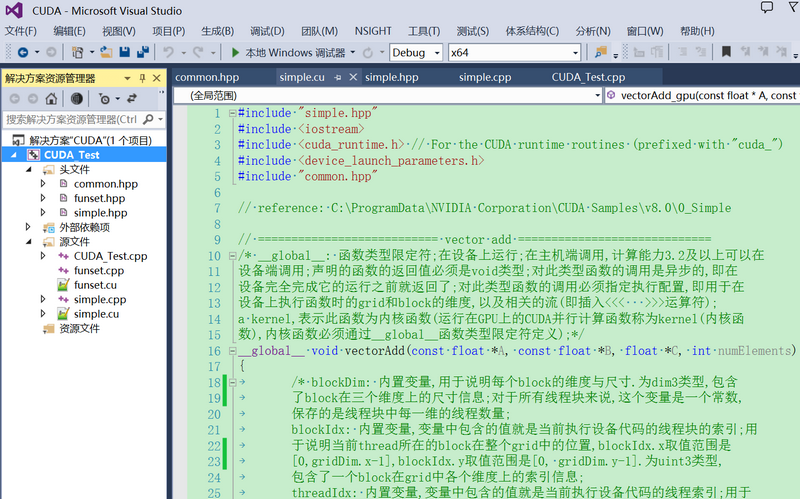
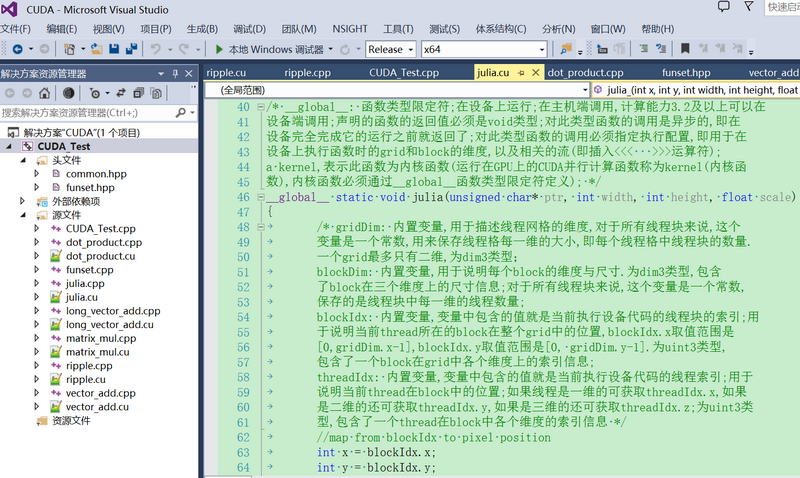
Add ripple test code

diff --git a/demo/CUDA_Test/funset.cpp b/demo/CUDA_Test/funset.cpp
@@ -7,6 +7,44 @@
 #include "common.hpp"
 #include <opencv2/opencv.hpp>
 
+int test_ripple()
+{
+	const int width{ 512 }, height = width;
+	const float scale{ 1.5f };
+	const int ticks{ 999 };
+	cv::Mat mat1(height, width, CV_8UC4), mat2(height, width, CV_8UC4);
+
+	float elapsed_time1{ 0.f }, elapsed_time2{ 0.f }; // milliseconds
+
+	int ret = ripple_cpu(mat1.data, width, height, ticks, &elapsed_time1);
+	if (ret != 0) PRINT_ERROR_INFO(ripple_cpu);
+
+	ret = ripple_gpu(mat2.data, width, height, ticks, &elapsed_time2);
+	if (ret != 0) PRINT_ERROR_INFO(ripple_gpu);
+
+	for (int y = 0; y < height; ++y) {
+		for (int x = 0; x < width; ++x) {
+			cv::Vec4b val1 = mat1.at<cv::Vec4b>(y, x);
+			cv::Vec4b val2 = mat2.at<cv::Vec4b>(y, x);
+
+			for (int i = 0; i < 4; ++i) {
+				if (val1[i] != val2[i]) {
+					fprintf(stderr, "their values are different at (%d, %d), i: %d, val1: %d, val2: %d\n",
+						x, y, i, val1[i], val2[i]);
+					return -1;
+				}
+			}
+		}
+	}
+
+	const std::string save_image_name{ "E:/GitCode/CUDA_Test/ripple.jpg" };
+	cv::imwrite(save_image_name, mat2);
+
+	fprintf(stderr, "cpu run time: %f ms, gpu run time: %f ms\n", elapsed_time1, elapsed_time2);
+
+	return 0;
+}
+
 int test_julia()
 {
 	const int width{ 512 }, height = width;

diff --git a/demo/CUDA_Test/ripple.cpp b/demo/CUDA_Test/ripple.cpp
@@ -1,0 +1,28 @@
+#include "funset.hpp"
+#include <chrono>
+
+int ripple_cpu(unsigned char* ptr, int width, int height, int ticks, float* elapsed_time)
+{
+	auto start = std::chrono::steady_clock::now();
+
+	for (int y = 0; y < height; ++y) {
+		for (int x = 0; x < width; ++x) {
+			int offset = x + y * width;
+			float fx = x - width / 2;
+			float fy = y - height / 2;
+			float d = sqrtf(fx * fx + fy * fy);
+			unsigned char grey = (unsigned char)(128.0f + 127.0f * cos(d / 10.0f - ticks / 7.0f) / (d / 10.0f + 1.0f));
+
+			ptr[offset * 4 + 0] = grey;
+			ptr[offset * 4 + 1] = grey;
+			ptr[offset * 4 + 2] = grey;
+			ptr[offset * 4 + 3] = 255;
+		}
+	}
+
+	auto end = std::chrono::steady_clock::now();
+	auto duration = std::chrono::duration_cast<std::chrono::nanoseconds>(end - start);
+	*elapsed_time = duration.count() * 1.0e-6;
+
+	return 0;
+}

diff --git a/demo/CUDA_Test/funset.hpp b/demo/CUDA_Test/funset.hpp
@@ -1,6 +1,10 @@
 #ifndef FBC_CUDA_TEST_FUNSET_HPP_
 #define FBC_CUDA_TEST_FUNSET_HPP_
 
+int test_ripple();
+int ripple_cpu(unsigned char* ptr, int width, int height, int ticks, float* elapsed_time);
+int ripple_gpu(unsigned char* ptr, int width, int height, int ticks, float* elapsed_time);
+
 int test_julia();
 int julia_cpu(unsigned char* ptr, int width, int height, float scale, float* elapsed_time);
 int julia_gpu(unsigned char* ptr, int width, int height, float scale, float* elapsed_time);

diff --git a/demo/CUDA_Test/CUDA_Test.cpp b/demo/CUDA_Test/CUDA_Test.cpp
@@ -3,7 +3,7 @@
 
 int main()
 {
-	int ret = test_julia();
+	int ret = test_ripple();
 
 	if (ret == 0) fprintf(stderr, "***** test success *****\n");
 	else fprintf(stderr, "===== test fail =====\n");

diff --git a/README.md b/README.md
@@ -4,6 +4,7 @@
 - matrix multiplication: C = A * B
 - dot product
 - Julia
+- ripple
 
 **The project support platform: windows10 64 bits. It can be directly build with VS2013 in windows10 64bits.**
 
